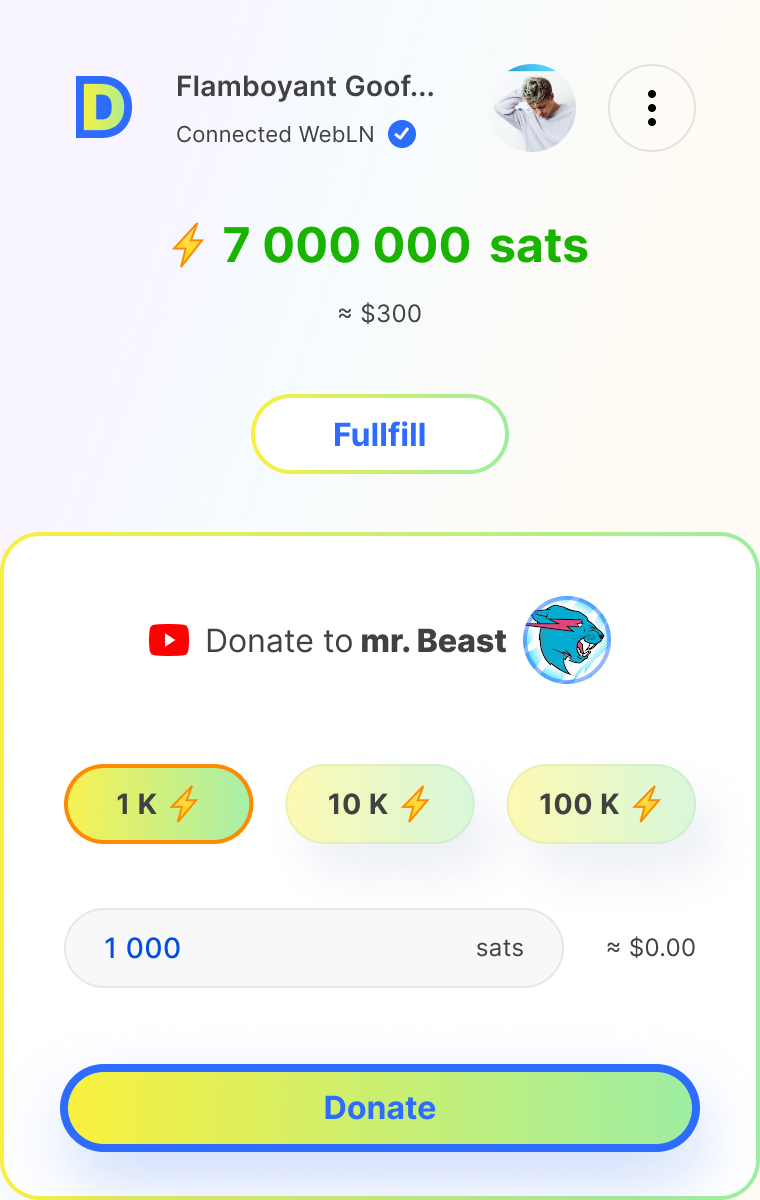
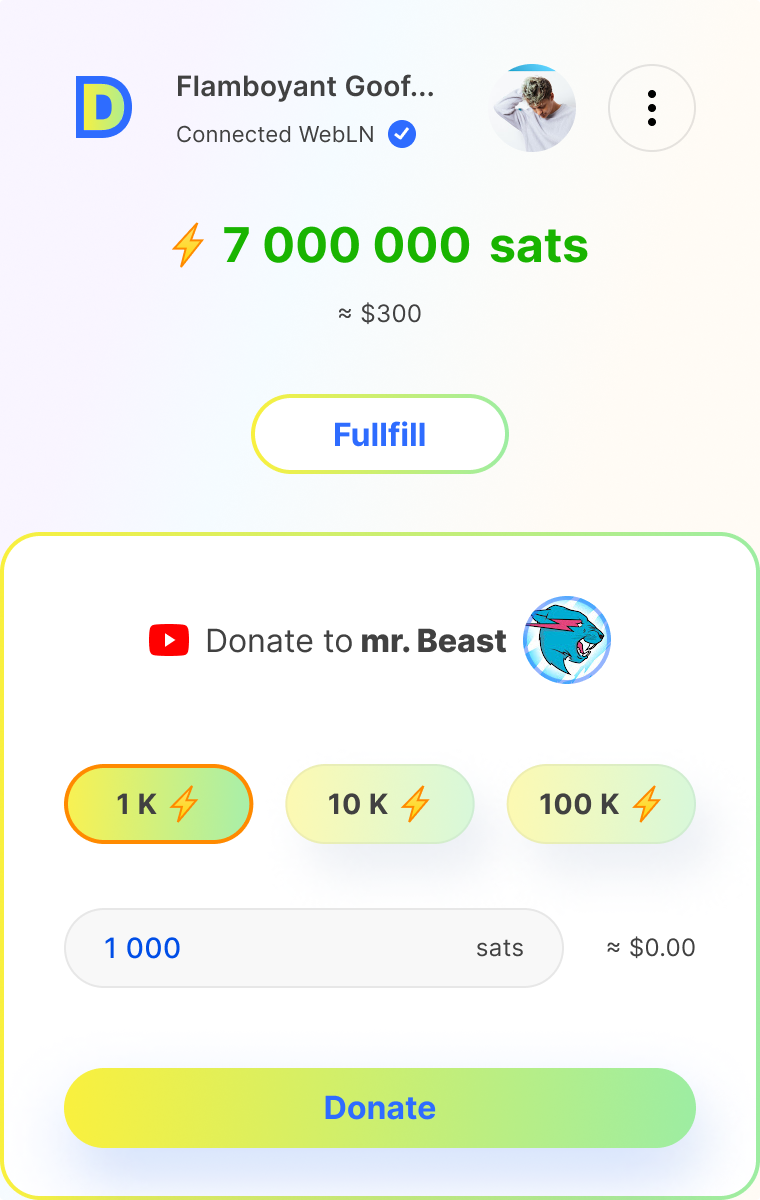
[extension] Change button border in YouTube Popup

diff --git a/frontend/src/lib/Button.svelte b/frontend/src/lib/Button.svelte
@@ -71,7 +71,8 @@
 <style>
 .root {
   display: contents;
-  ---border-width: var(--border-width, 2px);
+  --border-width-secondary: var(--border-width, 2px);
+  --border-width-primary: var(--border-width, 4px);
 }
 button {
   background-image: var(--background-image, linear-gradient(90deg, #F9F03E 0%, #9DEDA2 100%));
@@ -85,7 +86,7 @@ button {
   transition: all 0.2s ease;
   box-shadow: 0px 10px 40px rgba(46, 108, 255, 0.2), 10px 15px 20px rgba(209, 217, 230, 0.15);
 
-  border: 4px solid var(--link-color);
+  border: var(--border-width-primary) solid var(--link-color);
   border-radius: 100px;
   letter-spacing: 0.02em;
 }
@@ -101,11 +102,11 @@ button.white,button.light,button.blue,button.grey {
 /* border */
 button.white,button.light {
   background-image: linear-gradient(to right, #F9F03E 0%, #9DEDA2 100%);
-  padding: var(---border-width);
+  padding: var(--border-width-secondary);
 }
 button.blue {
   background: rgba(46, 108, 255, 0.2);
-  padding: var(---border-width);
+  padding: var(--border-width-secondary);
 }
 button.grey {
   background: #E9E9E9;
@@ -115,7 +116,7 @@ button.white > div,button.light > div, button.blue > div {
   padding: var(--padding, 10px 23px);  /* parent padding - 2px (pseudo-border) */
 }
 button.selected {
-  border: var(---border-width) solid #FF8A00;
+  border: var(--border-width-secondary) solid #FF8A00;
   box-shadow: none;
 }
 button.dimmed {

diff --git a/extensions/src/PopupYoutube.svelte b/extensions/src/PopupYoutube.svelte
@@ -93,9 +93,9 @@
         </div>
         {#await $me then me}
           {#if amount <= me.donator.balance}
-            <Button --width=100% on:click={donate} --padding="9px">Donate</Button>
+            <Button --width=100% on:click={donate} --padding="9px" --border-width="0">Donate</Button>
           {:else}
-            <Button --width=100% on:click={donate} --padding="9px">Donate with WebLN</Button>
+            <Button --width=100% on:click={donate} --padding="9px" --border-width="0">Donate with WebLN</Button>
           {/if}
         {/await}
       </div>
